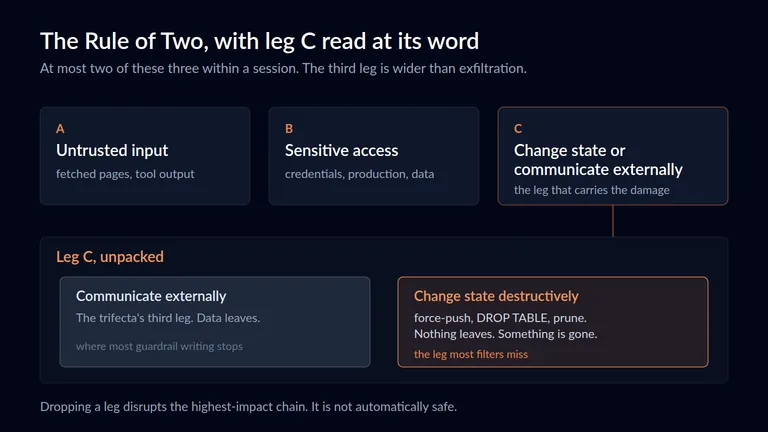
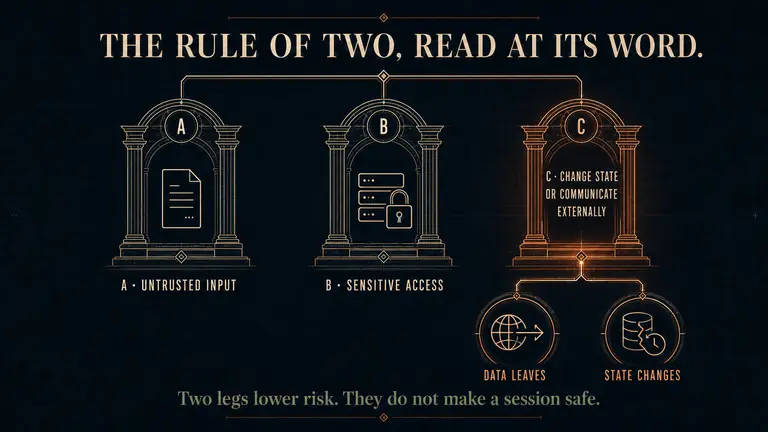
fix(guides): replace fail-closed placeholder diagrams
Replace the four provisional guide diagrams with the branded editorial set, preserve responsive WebP pairs, and align alt text with the final enforcement semantics.

diff --git a/constants.guides.generated.ts b/constants.guides.generated.ts
@@ -13,7 +13,7 @@ export const GUIDES: Guide[] = [
     "category": "Agent Engineering",
     "description": "The safety of an agent harness is not the list of things it can do. It is what the harness does by default when a required check cannot be satisfied. This guide builds the guardrails half of harness engineering that most write-ups name and skip: a fail-closed default, a trajectory model for when to refuse, and an honest account of what a command matcher can and cannot enforce.",
     "lead": "While I was writing this guide, my own harness refused me over and over. Not once because a command was dangerous, but because a required check had not been satisfied yet. None of those gates was a wall, and understanding why is the whole discipline.",
-    "body": "While I was writing this guide, my own harness kept refusing me.\n\nThe first refusal came when I tried to create a file. A gate intercepted the write and would not pass it until I had stated, on the record, what imported the file, what the blast radius was, what data it touched, and what the operator had actually asked for. I wrote those four facts. The retry went through. That happened on every new file the session touched, including the ones holding this guide's own research.\n\nA second gate refused to let the session end. I had pushed a branch and wanted to stop; the stop was blocked until I either ran the review pipeline or stated in writing why this change did not need it. A third, quieter one flagged that I had hidden both output streams on a command whose result I was branching on, which collapses \"the probe found nothing\" and \"the probe broke\" into the same answer.\n\nNot one of those is a wall. Every one is a speed bump that a deliberate, explicit action clears. That is the point, and it is where most guardrail writing goes wrong in both directions at once: it either promises a wall it cannot build, or it settles for a prompt the model can talk its way past.\n\n**Who this is for:** engineers building or operating an agent harness who have read the concept pieces, named the guardrails box on the diagram, and now need the guardrails box to actually hold.\n\n![Three capabilities converging inside one agent session: untrusted input, access to secrets or a production system, and a destructive or external action. When all three are present at once, the session needs supervision or a reliable validation step before a consequential action.](/assets/guides/fail-closed-harness/three-leg-refusal.webp \"The three-leg convergence: untrusted input, sensitive access, and a consequential action in one session.\")\n\n---\n\nCall it a fail-closed harness, and define it precisely, because the loose version of this idea is worse than useless:\n\n> A fail-closed harness refuses a consequential action when a required policy check or authorization cannot be evaluated or satisfied. A non-match in a destructive-command filter is not proof that the command is safe.\n\nThat second sentence is the one people skip. Hold onto it.\n\n\"Harness engineering\" is now its own discipline, and by mid-2026 it has owners. LangChain, [Mitchell Hashimoto](https://mitchellh.com/writing/my-ai-adoption-journey), Martin Fowler's team, and Lilian Weng have all staked out the term for the software wrapped around a model. The cleanest short definition comes from [LangChain's Vivek Trivedy](https://www.langchain.com/blog/the-anatomy-of-an-agent-harness):\n\n> A harness is every piece of code, configuration, and execution logic that isn't the model itself.\n\nMost of that writing races on capability: better tools, longer memory, smarter loops. The part almost everyone names and then skips is the guardrails. This guide is about that skipped part, and about one claim: the guardrails are not a feature you bolt on. They are a default you choose, once, and apply everywhere.\n\n## What does fail closed actually mean for a harness?\n\nOn 2026-07-23, three separate gates interrupted a single writing session, and not one of them was a wall. Each blocked by default, said exactly what it needed, and cleared once I supplied it. Fail closed names that default: when a required check cannot be satisfied, stop rather than proceed.\n\nThe distinction that carries the whole guide is prompt versus property. A permission prompt is a request. It asks the model, or a tired operator, to say yes, and a model fed untrusted content can be steered into saying yes and can steer you into it too, because the same context that poisoned the plan writes the rationale for the prompt. Telling an agent to \"only propose, never execute\" is a request of the same kind: a sentence in a system prompt, and a sentence is not an interlock.\n\nA property is enforced by something outside the model, and the model cannot redefine what counts as passing. That claim is narrower than it first sounds, and the opening shows why. The fact gate did clear after I wrote a paragraph, so a paragraph plainly changed the outcome. What the paragraph could not do was change the condition. The gate decided what had to be stated and when, and it recorded that a statement was made. It never verified that what I wrote was true.\n\nThat distinction splits guardrails into two kinds that are easy to confuse. A declaration gate forces something onto the record and proves only that it was recorded. An evidence gate independently validates the claim: a secret scan reads the diff itself, a test suite runs the code. Declaration gates buy deliberation and an audit trail, which is worth real money. They do not buy truth, and treating one as the other is its own failure mode. Our companion guide on [building infrastructure with an agent you can trust](/guides/agent-built-infrastructure-you-can-trust) makes the build-time version of this case; this guide makes the runtime version.\n\n## When should the harness refuse?\n\nOn 2025-10-31, Meta drew the line as a rule: an agent session should satisfy at most two of three properties at once. The three are untrusted input, sensitive access, and consequential action, which is the shape of most real damage. Hold all three and you are one prompt injection from a bad outcome.\n\nThe discipline is to drop a leg before you act, or to require supervision when you cannot. Meta states [the three properties](https://ai.meta.com/blog/practical-ai-agent-security/) directly:\n\n> agents must satisfy no more than two of the following three properties within a session: [A] An agent can process untrustworthy inputs; [B] An agent can have access to sensitive systems or private data; [C] An agent can change state or communicate externally.\n\nTwo days later Simon Willison [called it](https://simonwillison.net/2025/Nov/2/new-prompt-injection-papers/) the best practical advice for building secure LLM-powered agent systems today. His own earlier framing, [the lethal trifecta](https://simonwillison.net/2025/Jun/16/the-lethal-trifecta/) from June 2025, names the same three ingredients:\n\n> The lethal trifecta of capabilities is: Access to your private data ... Exposure to untrusted content ... The ability to externally communicate in a way that could be used to steal your data\n\nThe two framings differ on one leg. Willison's trifecta draws its third capability narrowly, the ability to communicate data out; he says as much, that the trifecta \"only covers the risk of data exfiltration.\" Meta's leg (C) is already wider, \"change state or communicate externally,\" which on its face includes destruction with no exfiltration at all: a force-push that rewrites history, a `DROP TABLE`, a prune that deletes volumes. Nothing leaves the building. Something inside it is destroyed.\n\nTwo clarifications keep this from being read too simply. First, leg (B) is broad. A force-push against a repository that matters is already access to a sensitive system, so that example usually implicates (A), (B), and (C) together rather than being a clean two-leg case. (A) plus (C) is genuinely lower risk only when the target is disposable. Second, the rule does not say that any two of three is safe, and Willison pushed back on exactly that reading. Two legs means lower blast radius, not immunity. Three legs means you need supervision or a reliable validation step before the action, which is not always the same as refusing it outright.\n\n![The Rule of Two as three legs. Leg A is untrusted input, leg B is sensitive or production access, leg C is any consequential output, including destructive or irreversible state-change and not only external communication. Holding all three legs at once is the condition that demands supervision or validation before acting.](/assets/guides/fail-closed-harness/rule-of-two-extended.webp \"Meta's Rule of Two, with leg C read at its word: destructive state-change, not only exfiltration.\")\n\n## How do you make refusal a property and not a prompt?\n\nOn 2026-07-23 the gate that fired most often did something narrower than it sounds. It matched the shape of what I was about to do against a small rule set, before the action ran, and raised an explicit decision. It never judged whether the action was safe. It judged whether a rule matched, a different and much weaker question.\n\nThat distinction is not pedantry, it is the whole honest account. A matcher that finds no known destructive pattern has established exactly one thing: no known pattern matched. It has not established that the command is safe. So the right mental model is a tripwire, not a wall, and the right role is defense-in-depth: one cheap layer that catches the obvious cases loudly, sitting underneath real controls, never standing in for them.\n\nBe concrete about what slips past. It matches command text before execution, which makes it a pre-command filter and not a sandbox. Shell expansion, an alias, `eval`, a sourced wrapper script, a `git` alias, or the same binary reached by another path can all carry a destructive action past a string match. Treat that list as the canary set and fire each one at the gate on a schedule. Where an action must actually be prevented rather than discouraged, enforcement belongs at the execution boundary, in the layer that runs the command, or better, in removing the capability from the session at all.\n\nThe failure mode is the other half. A gate is fail-closed only if the gate breaking is itself a block. In [Claude Code](https://code.claude.com/docs/en/hooks), a `PreToolUse` hook can stop a call two ways: exit code 2, which blocks and feeds its stderr back to the model, or a clean exit carrying a structured `permissionDecision` of `deny`. A `PermissionRequest` hook can deny as well. A `PostToolUse` hook cannot stop anything, because the tool has already run.\n\nEvery other non-zero exit, including an unhandled crash, is treated as a non-blocking error and the action proceeds. That failure is not silent; the transcript carries a hook-error notice. But a notice after the fact is not a block, and it arrives when the command has already run. So a gate that throws on an input it did not anticipate fails open on exactly the weird input most likely to be an attack. Write the gate so its own error path exits blocking, and test that path, not just the happy one.\n\n![A decision flow for a destructive-command matcher. A command enters, the matcher checks it against known destructive shapes, an unmatched command continues to the normal controls, a matched command raises an explicit decision requiring a trusted authorization, and any internal error in the matcher itself exits on the blocking path rather than allowing the command.](/assets/guides/fail-closed-harness/gate-decision-flow.webp \"The matcher's decision flow. An unmatched command is not a safe command, it is an unmatched one.\")\n\nThen there is the override, and here I will be exact rather than flattering. What clears the block in my own setup today is an environment variable the operator sets. That is a weaker thing than it sounds: an environment variable is not authentication, it is not bound to the specific command, it is not single-use, and it leaves no audit trail. Those four properties are what an override should have, and naming the gap is more useful than implying it is closed. An override the model can set for itself is the permission prompt again in a different hat.\n\n## What happens when the gate itself dies?\n\nThe gate that fired repeatedly on 2026-07-23 is documented, in its own rules file, as fail-open by construction. That is not a flaw someone hid. It is a deliberate trade, chosen so normal work is never blocked, and it is the single most important sentence to read about any control you are relying on.\n\nA healthy-looking control and a silently dead one are indistinguishable from the outside, and that is a general trap. I made the build-time version of the case in the [infrastructure guide](/guides/agent-built-infrastructure-you-can-trust): a control that is \"armed and green\" is making a claim about its own status, not about whether it does its job. The runtime version is sharper, because the thing failing open is the safety layer itself. Green has two causes, and watching cannot tell them apart.\n\nYou tell them apart by firing the control. A canary is a known violation you send through on purpose, on a schedule, to confirm the gate still catches it. It is the difference between installing a smoke detector and pressing its test button, and it is the single most skipped step in every safety layer I have built.\n\nBe precise about what a fired canary buys, though, because it is less than the phrase suggests. Armed-and-green proves nothing. Fired-and-caught proves that one path bound, at one moment. It says nothing about the path you did not exercise. So rotate the canaries: send a plainly known-bad command, then send the same intent dressed up in an alias or an `eval`, then force the control's own error path. Those three fail independently, and only the first is usually tested. A gate proven in June and quietly broken in July is worth exactly nothing in August.\n\n## Does fail-closed scale, and what does it cost?\n\nOn 2026-07-23 four control types touched one session: a first-touch fact gate, a pre-commit secret scan, a stop gate that blocked the session from ending, and a destructive-command matcher. Three of them hold until a check is satisfied. The fourth is fail-open by construction, and conflating the two is how a stack gets oversold.\n\nThe principle composes precisely because each control is dumb on its own. There is no central brain to poison, only narrow interlocks that each answer one question. But the stack is not uniform, and the honest inventory matters more than the count: three required gates that hold, plus one advisory tripwire that raises a decision and can be cleared. A pile of tripwires is not a sandbox, and calling it one is how teams end up surprised.\n\nFail-closed has a cost, and pretending otherwise is how you end up switching it off. A matcher keyed on command shapes will sometimes stop something harmless that merely looks dangerous: a chained one-liner with the word reset in a filename, a script whose name contains prune. False positives are real and annoying. Narrowing the pattern is often exactly right, and it can drop a specific false positive while keeping every true one, so the crude warning that tuning always costs coverage is wrong. What makes tuning safe is not judgment, it is a regression set: keep a fixture of commands that must still trip the matcher, and run it after every change. Tuning without that fixture is how a matcher quietly drifts toward matching nothing. Scope it to shapes that are actually irreversible, and give it a fast, trusted way to proceed. Fail-closed on everything and people route around you. Fail-closed on the irreversible and they thank you.\n\nThere is a market reason this matters, not only a safety one. The labs are bundling their own harnesses, Claude Code and Codex ship with the model, and third-party harnesses like LangChain's Deep Agents and Pydantic AI's Harness are racing them on capability. [LangChain showed](https://www.langchain.com/blog/improving-deep-agents-with-harness-engineering) how much capability lives in the harness rather than the weights: tuning only the harness moved their coding agent 13.7 points, from 52.8 to 66.5 on Terminal Bench 2.0, with the model held fixed. [Boris Cherny](https://x.com/bcherny/status/2007179832300581177), who built Claude Code, makes the capability case in one line, that giving an agent a way to verify its work \"will 2-3x the quality of the final result.\" The safety case is the same move pointed the other way: check before a consequential action, and refuse while the check is unsatisfied. I have not seen that lane claimed yet.\n\n![Four control types, sorted by kind rather than counted. Three required gates that block until a check is satisfied: a first-touch fact gate and a stop-and-review gate, both declaration gates that record a statement without verifying it, and a secret scan, an evidence gate that reads the diff itself. Set apart below them is a destructive-command matcher, a tripwire that raises a decision and is fail-open by construction.](/assets/guides/fail-closed-harness/layered-enforcement-stack.webp \"Three gates and a tripwire. Count the kinds, not the controls.\")\n\n## What are you actually shipping when you ship a harness?\n\nThe capability is what gets demoed. The default is what saves you at 2 a.m. when a poisoned page has talked your agent into something it should never do. Capability is the model plus the tools. Safety is the harness deciding, before the fact and without the model's permission, what happens when a required check cannot be satisfied.\n\nFail closed. Prove the control fires by firing it. Say plainly which layers are tripwires and which actually enforce, because the gap between those two is where every unpleasant surprise lives. And pay the friction on purpose, on the irreversible actions and nowhere else.\n\nThree companion guides go deeper on the pieces: [why agent-written code needs layered review](/guides/why-agent-code-needs-layered-review), the [governed double-send-safe delivery pipeline](/guides/governed-double-send-safe-delivery), and a [self-correcting verifier that learns to abstain](/guides/verifier-abstention-not-refutation). For the wider map of what a harness even is, Paul Iusztin's [overview of the parts of a harness](https://read.technically.dev/p/whats-harness-engineering) is a good conceptual starting point; this guide is the guardrails part of that map, built out into something that holds. The rest of the map, the tools, the memory, the loop, is where the demos live. The guardrails are where the trust does."
+    "body": "While I was writing this guide, my own harness kept refusing me.\n\nThe first refusal came when I tried to create a file. A gate intercepted the write and would not pass it until I had stated, on the record, what imported the file, what the blast radius was, what data it touched, and what the operator had actually asked for. I wrote those four facts. The retry went through. That happened on every new file the session touched, including the ones holding this guide's own research.\n\nA second gate refused to let the session end. I had pushed a branch and wanted to stop; the stop was blocked until I either ran the review pipeline or stated in writing why this change did not need it. A third, quieter one flagged that I had hidden both output streams on a command whose result I was branching on, which collapses \"the probe found nothing\" and \"the probe broke\" into the same answer.\n\nNot one of those is a wall. Every one is a speed bump that a deliberate, explicit action clears. That is the point, and it is where most guardrail writing goes wrong in both directions at once: it either promises a wall it cannot build, or it settles for a prompt the model can talk its way past.\n\n**Who this is for:** engineers building or operating an agent harness who have read the concept pieces, named the guardrails box on the diagram, and now need the guardrails box to actually hold.\n\n![Three agent capabilities, untrusted input, sensitive access, and consequential action, converge on a central supervision control, showing that a session holding all three requires supervision or reliable validation.](/assets/guides/fail-closed-harness/three-leg-refusal.webp \"One session, three capabilities, with supervision at their convergence.\")\n\n---\n\nCall it a fail-closed harness, and define it precisely, because the loose version of this idea is worse than useless:\n\n> A fail-closed harness refuses a consequential action when a required policy check or authorization cannot be evaluated or satisfied. A non-match in a destructive-command filter is not proof that the command is safe.\n\nThat second sentence is the one people skip. Hold onto it.\n\n\"Harness engineering\" is now its own discipline, and by mid-2026 it has owners. LangChain, [Mitchell Hashimoto](https://mitchellh.com/writing/my-ai-adoption-journey), Martin Fowler's team, and Lilian Weng have all staked out the term for the software wrapped around a model. The cleanest short definition comes from [LangChain's Vivek Trivedy](https://www.langchain.com/blog/the-anatomy-of-an-agent-harness):\n\n> A harness is every piece of code, configuration, and execution logic that isn't the model itself.\n\nMost of that writing races on capability: better tools, longer memory, smarter loops. The part almost everyone names and then skips is the guardrails. This guide is about that skipped part, and about one claim: the guardrails are not a feature you bolt on. They are a default you choose, once, and apply everywhere.\n\n## What does fail closed actually mean for a harness?\n\nOn 2026-07-23, three separate gates interrupted a single writing session, and not one of them was a wall. Each blocked by default, said exactly what it needed, and cleared once I supplied it. Fail closed names that default: when a required check cannot be satisfied, stop rather than proceed.\n\nThe distinction that carries the whole guide is prompt versus property. A permission prompt is a request. It asks the model, or a tired operator, to say yes, and a model fed untrusted content can be steered into saying yes and can steer you into it too, because the same context that poisoned the plan writes the rationale for the prompt. Telling an agent to \"only propose, never execute\" is a request of the same kind: a sentence in a system prompt, and a sentence is not an interlock.\n\nA property is enforced by something outside the model, and the model cannot redefine what counts as passing. That claim is narrower than it first sounds, and the opening shows why. The fact gate did clear after I wrote a paragraph, so a paragraph plainly changed the outcome. What the paragraph could not do was change the condition. The gate decided what had to be stated and when, and it recorded that a statement was made. It never verified that what I wrote was true.\n\nThat distinction splits guardrails into two kinds that are easy to confuse. A declaration gate forces something onto the record and proves only that it was recorded. An evidence gate independently validates the claim: a secret scan reads the diff itself, a test suite runs the code. Declaration gates buy deliberation and an audit trail, which is worth real money. They do not buy truth, and treating one as the other is its own failure mode. Our companion guide on [building infrastructure with an agent you can trust](/guides/agent-built-infrastructure-you-can-trust) makes the build-time version of this case; this guide makes the runtime version.\n\n## When should the harness refuse?\n\nOn 2025-10-31, Meta drew the line as a rule: an agent session should satisfy at most two of three properties at once. The three are untrusted input, sensitive access, and consequential action, which is the shape of most real damage. Hold all three and you are one prompt injection from a bad outcome.\n\nThe discipline is to drop a leg before you act, or to require supervision when you cannot. Meta states [the three properties](https://ai.meta.com/blog/practical-ai-agent-security/) directly:\n\n> agents must satisfy no more than two of the following three properties within a session: [A] An agent can process untrustworthy inputs; [B] An agent can have access to sensitive systems or private data; [C] An agent can change state or communicate externally.\n\nTwo days later Simon Willison [called it](https://simonwillison.net/2025/Nov/2/new-prompt-injection-papers/) the best practical advice for building secure LLM-powered agent systems today. His own earlier framing, [the lethal trifecta](https://simonwillison.net/2025/Jun/16/the-lethal-trifecta/) from June 2025, names the same three ingredients:\n\n> The lethal trifecta of capabilities is: Access to your private data ... Exposure to untrusted content ... The ability to externally communicate in a way that could be used to steal your data\n\nThe two framings differ on one leg. Willison's trifecta draws its third capability narrowly, the ability to communicate data out; he says as much, that the trifecta \"only covers the risk of data exfiltration.\" Meta's leg (C) is already wider, \"change state or communicate externally,\" which on its face includes destruction with no exfiltration at all: a force-push that rewrites history, a `DROP TABLE`, a prune that deletes volumes. Nothing leaves the building. Something inside it is destroyed.\n\nTwo clarifications keep this from being read too simply. First, leg (B) is broad. A force-push against a repository that matters is already access to a sensitive system, so that example usually implicates (A), (B), and (C) together rather than being a clean two-leg case. (A) plus (C) is genuinely lower risk only when the target is disposable. Second, the rule does not say that any two of three is safe, and Willison pushed back on exactly that reading. Two legs means lower blast radius, not immunity. Three legs means you need supervision or a reliable validation step before the action, which is not always the same as refusing it outright.\n\n![Meta's Rule of Two shown as three architectural pillars: untrusted input, sensitive access, and the wider third leg of changing state or communicating externally. Leg C branches into data leaving and state changing, while the closing line warns that two legs lower risk but do not certify safety.](/assets/guides/fail-closed-harness/rule-of-two-extended.webp \"The Rule of Two, with leg C read at its word and two legs treated as lower risk rather than safe.\")\n\n## How do you make refusal a property and not a prompt?\n\nOn 2026-07-23 the gate that fired most often did something narrower than it sounds. It matched the shape of what I was about to do against a small rule set, before the action ran, and raised an explicit decision. It never judged whether the action was safe. It judged whether a rule matched, a different and much weaker question.\n\nThat distinction is not pedantry, it is the whole honest account. A matcher that finds no known destructive pattern has established exactly one thing: no known pattern matched. It has not established that the command is safe. So the right mental model is a tripwire, not a wall, and the right role is defense-in-depth: one cheap layer that catches the obvious cases loudly, sitting underneath real controls, never standing in for them.\n\nBe concrete about what slips past. It matches command text before execution, which makes it a pre-command filter and not a sandbox. Shell expansion, an alias, `eval`, a sourced wrapper script, a `git` alias, or the same binary reached by another path can all carry a destructive action past a string match. Treat that list as the canary set and fire each one at the gate on a schedule. Where an action must actually be prevented rather than discouraged, enforcement belongs at the execution boundary, in the layer that runs the command, or better, in removing the capability from the session at all.\n\nThe failure mode is the other half. A gate is fail-closed only if the gate breaking is itself a block. In [Claude Code](https://code.claude.com/docs/en/hooks), a `PreToolUse` hook can stop a call two ways: exit code 2, which blocks and feeds its stderr back to the model, or a clean exit carrying a structured `permissionDecision` of `deny`. A `PermissionRequest` hook can deny as well. A `PostToolUse` hook cannot stop anything, because the tool has already run.\n\nEvery other non-zero exit, including an unhandled crash, is treated as a non-blocking error and the action proceeds. That failure is not silent; the transcript carries a hook-error notice. But a notice after the fact is not a block, and it arrives when the command has already run. So a gate that throws on an input it did not anticipate fails open on exactly the weird input most likely to be an attack. Write the gate so its own error path exits blocking, and test that path, not just the happy one.\n\n![A destructive-command tripwire checks a command for a known bad shape. A non-match continues to normal controls, while a match stops for a human decision. A separate error panel contrasts the current non-blocking failure path, which continues with a visible hook error, against a target blocking path that stops the command.](/assets/guides/fail-closed-harness/gate-decision-flow.webp \"A tripwire is not a wall: current fail-open behavior contrasted with the target blocking path.\")\n\nThen there is the override, and here I will be exact rather than flattering. What clears the block in my own setup today is an environment variable the operator sets. That is a weaker thing than it sounds: an environment variable is not authentication, it is not bound to the specific command, it is not single-use, and it leaves no audit trail. Those four properties are what an override should have, and naming the gap is more useful than implying it is closed. An override the model can set for itself is the permission prompt again in a different hat.\n\n## What happens when the gate itself dies?\n\nThe gate that fired repeatedly on 2026-07-23 is documented, in its own rules file, as fail-open by construction. That is not a flaw someone hid. It is a deliberate trade, chosen so normal work is never blocked, and it is the single most important sentence to read about any control you are relying on.\n\nA healthy-looking control and a silently dead one are indistinguishable from the outside, and that is a general trap. I made the build-time version of the case in the [infrastructure guide](/guides/agent-built-infrastructure-you-can-trust): a control that is \"armed and green\" is making a claim about its own status, not about whether it does its job. The runtime version is sharper, because the thing failing open is the safety layer itself. Green has two causes, and watching cannot tell them apart.\n\nYou tell them apart by firing the control. A canary is a known violation you send through on purpose, on a schedule, to confirm the gate still catches it. It is the difference between installing a smoke detector and pressing its test button, and it is the single most skipped step in every safety layer I have built.\n\nBe precise about what a fired canary buys, though, because it is less than the phrase suggests. Armed-and-green proves nothing. Fired-and-caught proves that one path bound, at one moment. It says nothing about the path you did not exercise. So rotate the canaries: send a plainly known-bad command, then send the same intent dressed up in an alias or an `eval`, then force the control's own error path. Those three fail independently, and only the first is usually tested. A gate proven in June and quietly broken in July is worth exactly nothing in August.\n\n## Does fail-closed scale, and what does it cost?\n\nOn 2026-07-23 four control types touched one session: a first-touch fact gate, a pre-commit secret scan, a stop gate that blocked the session from ending, and a destructive-command matcher. Three of them hold until a check is satisfied. The fourth is fail-open by construction, and conflating the two is how a stack gets oversold.\n\nThe principle composes precisely because each control is dumb on its own. There is no central brain to poison, only narrow interlocks that each answer one question. But the stack is not uniform, and the honest inventory matters more than the count: three required gates that hold, plus one advisory tripwire that raises a decision and can be cleared. A pile of tripwires is not a sandbox, and calling it one is how teams end up surprised.\n\nFail-closed has a cost, and pretending otherwise is how you end up switching it off. A matcher keyed on command shapes will sometimes stop something harmless that merely looks dangerous: a chained one-liner with the word reset in a filename, a script whose name contains prune. False positives are real and annoying. Narrowing the pattern is often exactly right, and it can drop a specific false positive while keeping every true one, so the crude warning that tuning always costs coverage is wrong. What makes tuning safe is not judgment, it is a regression set: keep a fixture of commands that must still trip the matcher, and run it after every change. Tuning without that fixture is how a matcher quietly drifts toward matching nothing. Scope it to shapes that are actually irreversible, and give it a fast, trusted way to proceed. Fail-closed on everything and people route around you. Fail-closed on the irreversible and they thank you.\n\nThere is a market reason this matters, not only a safety one. The labs are bundling their own harnesses, Claude Code and Codex ship with the model, and third-party harnesses like LangChain's Deep Agents and Pydantic AI's Harness are racing them on capability. [LangChain showed](https://www.langchain.com/blog/improving-deep-agents-with-harness-engineering) how much capability lives in the harness rather than the weights: tuning only the harness moved their coding agent 13.7 points, from 52.8 to 66.5 on Terminal Bench 2.0, with the model held fixed. [Boris Cherny](https://x.com/bcherny/status/2007179832300581177), who built Claude Code, makes the capability case in one line, that giving an agent a way to verify its work \"will 2-3x the quality of the final result.\" The safety case is the same move pointed the other way: check before a consequential action, and refuse while the check is unsatisfied. I have not seen that lane claimed yet.\n\n![Three required gates, first-touch declaration, secret scan, and stop plus review, share a default-refuse enforcement spine. A destructive-command matcher sits outside that spine as a separate tripwire that asks on a known match but fails open on an internal error.](/assets/guides/fail-closed-harness/layered-enforcement-stack.webp \"Three required gates and one advisory tripwire, separated by role and default.\")\n\n## What are you actually shipping when you ship a harness?\n\nThe capability is what gets demoed. The default is what saves you at 2 a.m. when a poisoned page has talked your agent into something it should never do. Capability is the model plus the tools. Safety is the harness deciding, before the fact and without the model's permission, what happens when a required check cannot be satisfied.\n\nFail closed. Prove the control fires by firing it. Say plainly which layers are tripwires and which actually enforce, because the gap between those two is where every unpleasant surprise lives. And pay the friction on purpose, on the irreversible actions and nowhere else.\n\nThree companion guides go deeper on the pieces: [why agent-written code needs layered review](/guides/why-agent-code-needs-layered-review), the [governed double-send-safe delivery pipeline](/guides/governed-double-send-safe-delivery), and a [self-correcting verifier that learns to abstain](/guides/verifier-abstention-not-refutation). For the wider map of what a harness even is, Paul Iusztin's [overview of the parts of a harness](https://read.technically.dev/p/whats-harness-engineering) is a good conceptual starting point; this guide is the guardrails part of that map, built out into something that holds. The rest of the map, the tools, the memory, the loop, is where the demos live. The guardrails are where the trust does."
   },
   {
     "title": "The Recon Refuted the Task: Building Infrastructure With an Agent You Can Trust",

diff --git a/content/guides/the-fail-closed-harness.md b/content/guides/the-fail-closed-harness.md
@@ -17,7 +17,7 @@ Not one of those is a wall. Every one is a speed bump that a deliberate, explici
 
 **Who this is for:** engineers building or operating an agent harness who have read the concept pieces, named the guardrails box on the diagram, and now need the guardrails box to actually hold.
 
-![Three capabilities converging inside one agent session: untrusted input, access to secrets or a production system, and a destructive or external action. When all three are present at once, the session needs supervision or a reliable validation step before a consequential action.](/assets/guides/fail-closed-harness/three-leg-refusal.webp "The three-leg convergence: untrusted input, sensitive access, and a consequential action in one session.")
+![Three agent capabilities, untrusted input, sensitive access, and consequential action, converge on a central supervision control, showing that a session holding all three requires supervision or reliable validation.](/assets/guides/fail-closed-harness/three-leg-refusal.webp "One session, three capabilities, with supervision at their convergence.")
 
 ---
 
@@ -59,7 +59,7 @@ The two framings differ on one leg. Willison's trifecta draws its third capabili
 
 Two clarifications keep this from being read too simply. First, leg (B) is broad. A force-push against a repository that matters is already access to a sensitive system, so that example usually implicates (A), (B), and (C) together rather than being a clean two-leg case. (A) plus (C) is genuinely lower risk only when the target is disposable. Second, the rule does not say that any two of three is safe, and Willison pushed back on exactly that reading. Two legs means lower blast radius, not immunity. Three legs means you need supervision or a reliable validation step before the action, which is not always the same as refusing it outright.
 
-![The Rule of Two as three legs. Leg A is untrusted input, leg B is sensitive or production access, leg C is any consequential output, including destructive or irreversible state-change and not only external communication. Holding all three legs at once is the condition that demands supervision or validation before acting.](/assets/guides/fail-closed-harness/rule-of-two-extended.webp "Meta's Rule of Two, with leg C read at its word: destructive state-change, not only exfiltration.")
+![Meta's Rule of Two shown as three architectural pillars: untrusted input, sensitive access, and the wider third leg of changing state or communicating externally. Leg C branches into data leaving and state changing, while the closing line warns that two legs lower risk but do not certify safety.](/assets/guides/fail-closed-harness/rule-of-two-extended.webp "The Rule of Two, with leg C read at its word and two legs treated as lower risk rather than safe.")
 
 ## How do you make refusal a property and not a prompt?
 
@@ -73,7 +73,7 @@ The failure mode is the other half. A gate is fail-closed only if the gate break
 
 Every other non-zero exit, including an unhandled crash, is treated as a non-blocking error and the action proceeds. That failure is not silent; the transcript carries a hook-error notice. But a notice after the fact is not a block, and it arrives when the command has already run. So a gate that throws on an input it did not anticipate fails open on exactly the weird input most likely to be an attack. Write the gate so its own error path exits blocking, and test that path, not just the happy one.
 
-![A decision flow for a destructive-command matcher. A command enters, the matcher checks it against known destructive shapes, an unmatched command continues to the normal controls, a matched command raises an explicit decision requiring a trusted authorization, and any internal error in the matcher itself exits on the blocking path rather than allowing the command.](/assets/guides/fail-closed-harness/gate-decision-flow.webp "The matcher's decision flow. An unmatched command is not a safe command, it is an unmatched one.")
+![A destructive-command tripwire checks a command for a known bad shape. A non-match continues to normal controls, while a match stops for a human decision. A separate error panel contrasts the current non-blocking failure path, which continues with a visible hook error, against a target blocking path that stops the command.](/assets/guides/fail-closed-harness/gate-decision-flow.webp "A tripwire is not a wall: current fail-open behavior contrasted with the target blocking path.")
 
 Then there is the override, and here I will be exact rather than flattering. What clears the block in my own setup today is an environment variable the operator sets. That is a weaker thing than it sounds: an environment variable is not authentication, it is not bound to the specific command, it is not single-use, and it leaves no audit trail. Those four properties are what an override should have, and naming the gap is more useful than implying it is closed. An override the model can set for itself is the permission prompt again in a different hat.
 
@@ -97,7 +97,7 @@ Fail-closed has a cost, and pretending otherwise is how you end up switching it 
 
 There is a market reason this matters, not only a safety one. The labs are bundling their own harnesses, Claude Code and Codex ship with the model, and third-party harnesses like LangChain's Deep Agents and Pydantic AI's Harness are racing them on capability. [LangChain showed](https://www.langchain.com/blog/improving-deep-agents-with-harness-engineering) how much capability lives in the harness rather than the weights: tuning only the harness moved their coding agent 13.7 points, from 52.8 to 66.5 on Terminal Bench 2.0, with the model held fixed. [Boris Cherny](https://x.com/bcherny/status/2007179832300581177), who built Claude Code, makes the capability case in one line, that giving an agent a way to verify its work "will 2-3x the quality of the final result." The safety case is the same move pointed the other way: check before a consequential action, and refuse while the check is unsatisfied. I have not seen that lane claimed yet.
 
-![Four control types, sorted by kind rather than counted. Three required gates that block until a check is satisfied: a first-touch fact gate and a stop-and-review gate, both declaration gates that record a statement without verifying it, and a secret scan, an evidence gate that reads the diff itself. Set apart below them is a destructive-command matcher, a tripwire that raises a decision and is fail-open by construction.](/assets/guides/fail-closed-harness/layered-enforcement-stack.webp "Three gates and a tripwire. Count the kinds, not the controls.")
+![Three required gates, first-touch declaration, secret scan, and stop plus review, share a default-refuse enforcement spine. A destructive-command matcher sits outside that spine as a separate tripwire that asks on a known match but fails open on an internal error.](/assets/guides/fail-closed-harness/layered-enforcement-stack.webp "Three required gates and one advisory tripwire, separated by role and default.")
 
 ## What are you actually shipping when you ship a harness?
 
